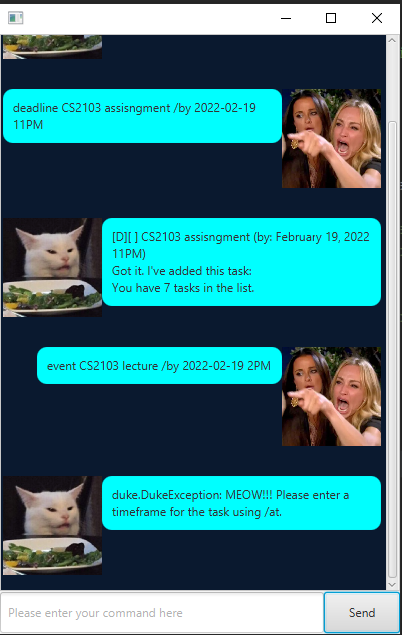
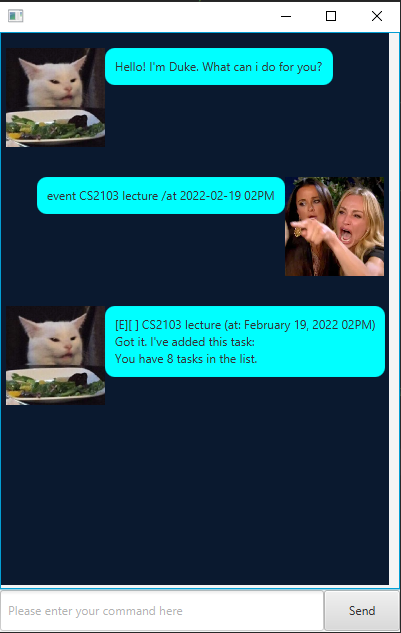
Minor changes to ReadMe

diff --git a/src/main/java/myTasks/Event.java b/src/main/java/myTasks/Event.java
@@ -29,7 +29,7 @@ public class Event extends Task {
 
     @Override
     public String toString() {
-        return "[E]" + super.toString() + "(by: "
+        return "[E]" + super.toString() + "(at: "
                 + LocalDateTime.parse(dateTime, DateTimeFormatter.ofPattern("yyyy-MM-dd hha"))
                         .format(DateTimeFormatter.ofPattern("MMMM d, yyyy hha")) + ")";
     }

diff --git a/docs/README.md b/docs/README.md
@@ -1,29 +1,161 @@
-# User Guide
+# User Guide to Meow
 
-## Features 
+Meow is a desktop application for users to keep track of various task they would like do. 
+There are numerous functions in the application that can assist you in tracking your tasks.
 
-### Feature-ABC
+* Features & Usage
+   * [1. List the tasks currently tracked](#1-list-the-tasks-currently-tracked)
+   * [2. Find a task using a keyword](#2-find-a-task-using-a-keyword)
+   * [3. Create a Task](#3-create-a-task)
+      * [3.1 Create a Todo](#31-create-a-todo)
+      * [3.2 Create a Deadline](#32-create-a-deadline)
+      * [3.3 Create an Event](#33-create-an-event)
+   * [4. Mark & Unmark](#4-mark-and-unmark)
+      * [4.1 Mark a Task](#41-mark-a-task)
+      * [4.2 Unmark a Task](#42-unmark-a-task)
+   * [5. Delete a Task](#5-delete-a-task)
+   * [6. Exit the programme](#6-exit-the-programme)
 
-Description of the feature.
+## **1. List the tasks currently tracked**
 
-### Feature-XYZ
+This feature allows the user to display all task that they are currently tracking.
 
-Description of the feature.
+We will be able to see Task:
+   1. Type
+   2. Completion
+   3. Description
+   4. Deadline/StartTime
 
-## Usage
+*Usage*: We would like to see what tasks we are currently tracking.
 
-### `Keyword` - Describe action
+*Format*: `list`
 
-Describe the action and its outcome.
+*Examples*: `list`
 
-Example of usage: 
+![listImg](./docs/list.PNG)
+ 
+## **2. Find a task using a keyword**
 
-`keyword (optional arguments)`
+This feature allows the user to search for a group of tasks using keywords.
 
-Expected outcome:
+*Usage*: We would like to see if we have any task relating to mom.
 
-Description of the outcome.
+*Format*: `find [keyword]`
 
-```
-expected output
-```
+*Examples*: `find mom`
+
+![findImg](./docs/find.PNG)
+ 
+## **3. Create a Task**
+
+We are able to create tasks to keep tracks of.
+Different tasks type will be able to keep track of different things.
+
+There are 3 types of tasks we can keep track of:
+   1. [Todo](#31-create-a-todo)
+   2. [Deadline](#32-create-a-deadline)
+   3. [Event](#33-create-an-event)
+
+### **3.1 Create a Todo**
+
+This feature allows the user to create a Todo task.
+A Todo task stores:
+   1. Type
+   2. Completion
+   3. Description
+
+*Usage*: We would like to clean the house soon.
+
+*Format*: `todo [Description]`
+
+*Examples*: `todo clean the house`
+
+![todoImg](./docs/todo.PNG)
+
+### **3.2 Create a Deadline**
+
+This feature allows the user to create a Deadline task.
+A Todo task stores:
+   1. Type
+   2. Completion
+   3. Description
+   4. Deadline
+
+*Usage*: We have a CS2103 assignment due on 19-02-2022 11PM.
+
+*Format*: `event [Description] /by YYYY-MM-DD HHA`
+
+*Examples*: `deadline CS2103 assisngment /by 2022-02-19 11PM`
+
+![deadlineImg](./docs/deadline.PNG)
+
+### **3.3 Create an Event**
+
+This feature allows the user to create an Event task.
+A Todo task stores:
+   1. Type
+   2. Completion
+   3. Description
+   4. StartTime
+
+*Usage*: We have a CS2103 lecture at 19-02-2022 2PM.
+
+*Format*: `event [Description] /at YYYY-MM-DD HHA`
+
+*Examples*: `event CS2103 lecture /at 2022-02-19 02PM`
+
+![eventImg](./docs/event.PNG)
+
+## **4. Mark and Unmark**
+
+We are able to indicate if the task has been completed by marking or unmarking them.
+   1. [Mark a Task](#41-mark-a-task)
+   2. [Unmark a Task](#42-unmark-a-task)
+
+### **4.1 Mark a Task**
+
+This feature allows the user indicate that the task has been completed.
+
+*Usage*: We have completed task 5 on the list.
+
+*Format*: `mark [task index]`
+
+*Examples*: `mark 5`
+
+![markImg](./docs/mark.PNG)
+
+### **4.2 Unmark a Task**
+
+This feature allows the user indicate that the task has not been completed.
+
+*Usage*: We realised that there is extra work on task 5.
+
+*Format*: `unmark [task index]`
+
+*Examples*: `unmark 5`
+
+![unmarkImg](./docs/unmark.PNG)
+   
+## **5. Delete a Task**
+
+This feature allows the user to delete a task from the list.
+
+*Usage*: The deadline for task 4 has pass and we no longer have to keep track of it.
+
+*Format*: `delete [task index]`
+
+*Examples*: `delete 4`
+
+![deleteImg](./docs/delete.PNG)
+
+## **6. Exit the programme**
+
+This feature allows the user to exit the programme.
+
+*Usage*: I have finish what I am doing and would like to exit the application
+
+*Format*: `bye`
+
+*Examples*: `bye`
+
+![byeImg](./docs/bye.PNG)

diff --git a/README.md b/README.md
@@ -100,9 +100,9 @@ A Todo task stores:
 
 *Usage*: We have a CS2103 lecture at 19-02-2022 2PM.
 
-*Format*: `event [Description] /by YYYY-MM-DD HHA`
+*Format*: `event [Description] /at YYYY-MM-DD HHA`
 
-*Examples*: `event CS2103 lecture /by 2022-02-19 2PM`
+*Examples*: `event CS2103 lecture /at 2022-02-19 02PM`
 
 ![eventImg](./docs/event.PNG)
 
